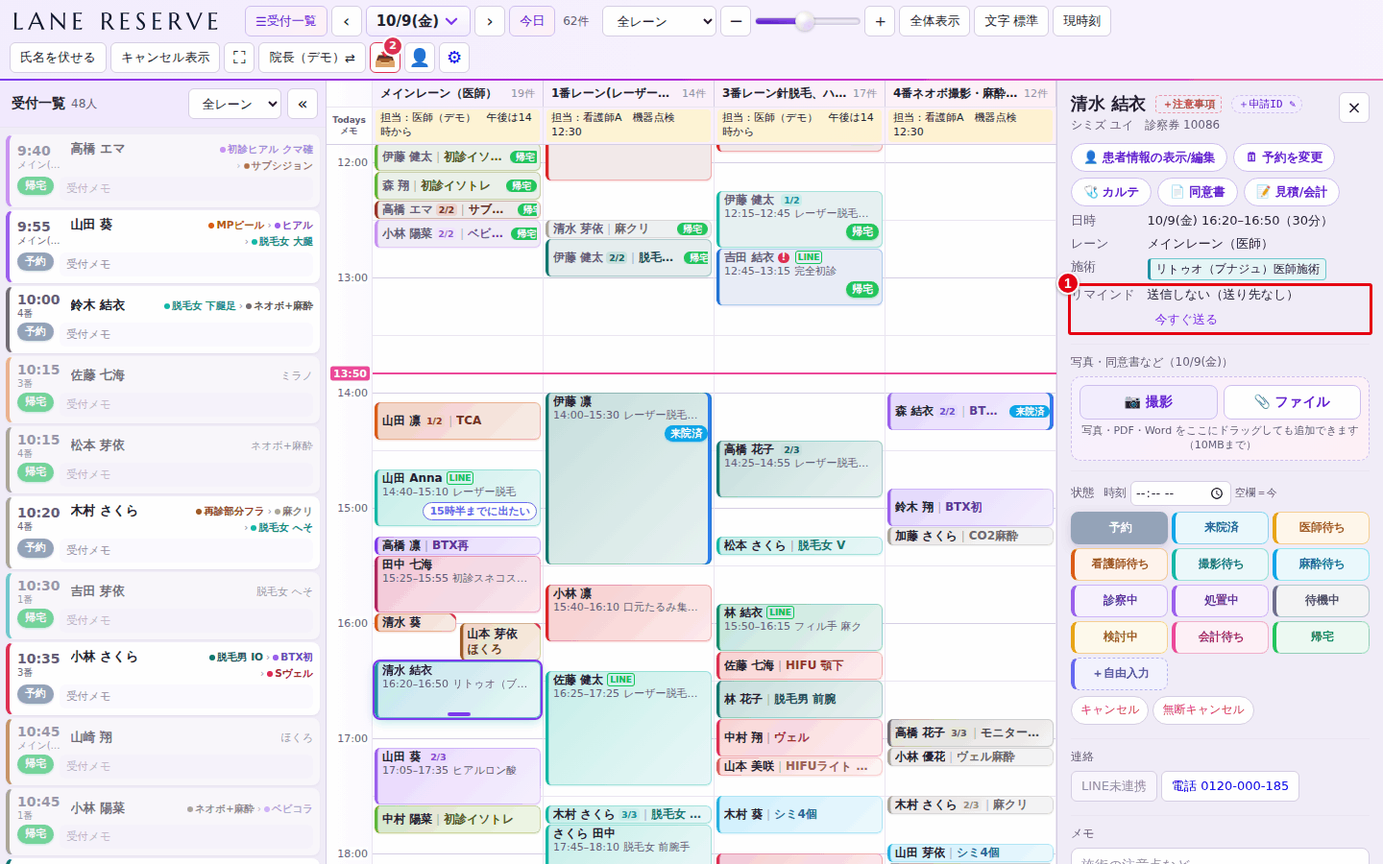
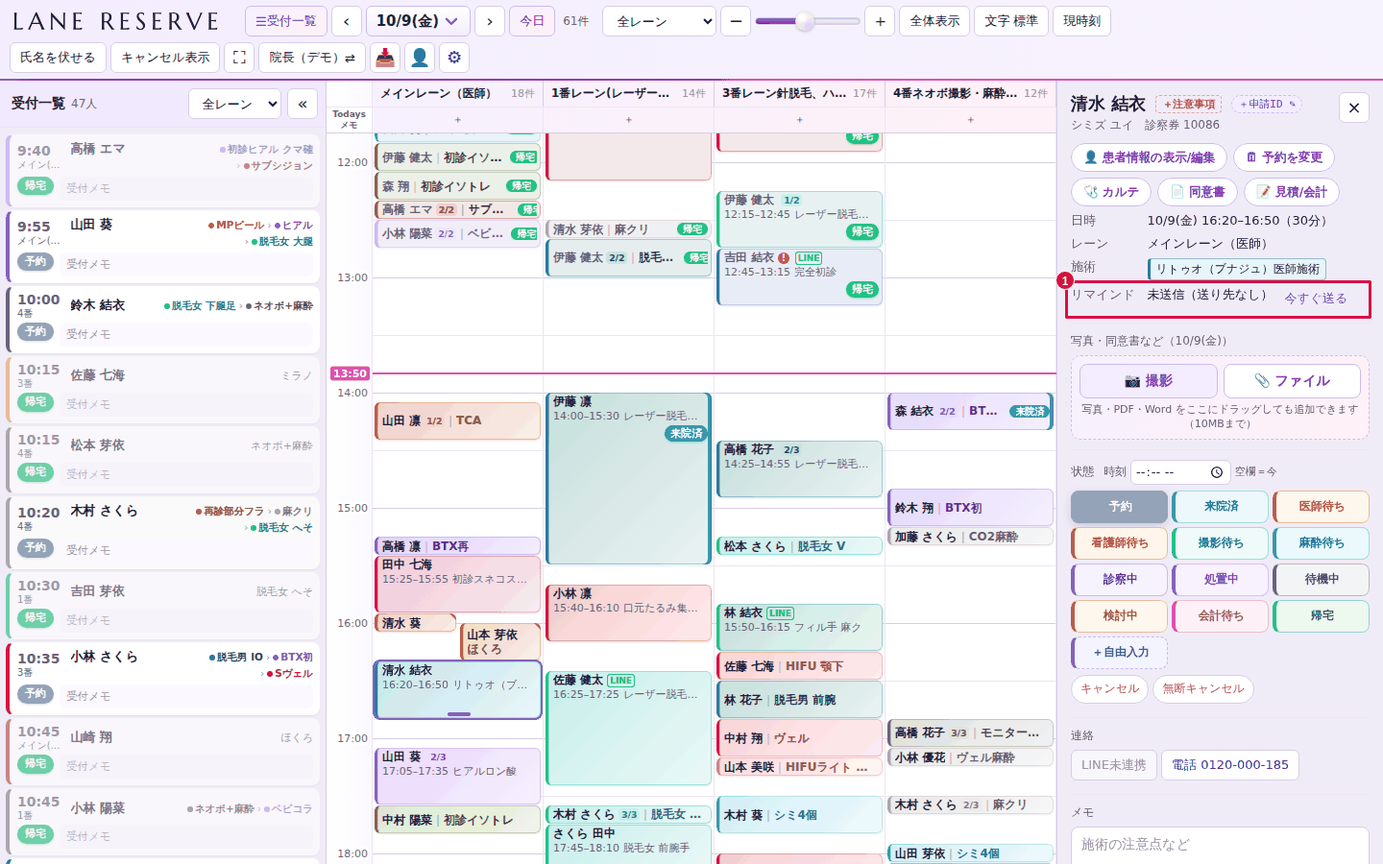
操作マニュアル：リマインドの表示・設定の変更（送信状況の確認、止める日、チャネルアクセストークン、来院前の案内）に合わせて撮り直し・追記。ページ内リンクを修正
Claude-Session: https://claude.ai/code/session_01QVwqemKgjejDT1q69zBnSy

diff --git a/apps/reserve/docs/manual/manual.html b/apps/reserve/docs/manual/manual.html
@@ -43,6 +43,7 @@ main { min-width: 0; max-width: 780px; }
 main h2 { font-family: var(--display); font-size: 26px; margin: 64px 0 16px; padding-top: 8px; border-top: 2px solid var(--ink); text-wrap: balance; scroll-margin-top: 16px; }
 main h2:first-child { margin-top: 8px; }
 main h3 { font-family: var(--display); font-size: 19px; margin: 36px 0 8px; color: var(--accent-ink); scroll-margin-top: 16px; }
+main h4 { font-family: var(--display); font-size: 16px; margin: 24px 0 6px; scroll-margin-top: 72px; }
 main p, main li { max-width: 68ch; }
 main ol, main ul { padding-left: 1.5em; }
 main li + li { margin-top: 4px; }
@@ -202,7 +203,7 @@ main h2, main h3 { scroll-margin-top: 72px; }
 </tr>
 <tr>
 <td><strong>管理操作</strong></td>
-<td>設定の変更や患者の削除・統合などの操作。院長・管理者と受付ができ、院長がほかのスタッフに許可することもできます（<a href="#15-役割ごとにできること">15章</a>）</td>
+<td>設定の変更や患者の削除・統合などの操作。院長・管理者と受付ができ、院長がほかのスタッフに許可することもできます（<a href="#s15">15章</a>）</td>
 </tr>
 </tbody>
 </table></div>
@@ -262,7 +263,7 @@ main h2, main h3 { scroll-margin-top: 72px; }
 <tr>
 <td>⑥</td>
 <td>Todaysメモ</td>
-<td>レーンごとのその日のメモ（<a href="#3-4-todaysメモ">3-4</a>）</td>
+<td>レーンごとのその日のメモ（<a href="#t6">3-4</a>）</td>
 </tr>
 <tr>
 <td>⑦</td>
@@ -277,7 +278,7 @@ main h2, main h3 { scroll-margin-top: 72px; }
 <tr>
 <td>⑨</td>
 <td>📥 受付箱</td>
-<td>LINE予約申請の受付箱（<a href="#4-4-line予約申請の文面から入れる">4-4</a>）。未対応の申請があると件数の赤い札が付きます</td>
+<td>LINE予約申請の受付箱（<a href="#t12">4-4</a>）。未対応の申請があると件数の赤い札が付きます</td>
 </tr>
 </tbody>
 </table></div>
@@ -340,7 +341,7 @@ main h2, main h3 { scroll-margin-top: 72px; }
 <p>左側の一覧には、その日の患者が時刻順に並びます（右上はレーンの絞り込み、「«」でたたむ）。パソコンでは最初から開き、スマホ・タブレットではたたまれています。</p>
 <ul>
 <li>行を押すと、予約表のその予約が選ばれ、右に詳細が出ます。</li>
-<li>行の左下の <strong>状態の札（予約・帰宅など）</strong> を押すと、状態を選ぶ窓が開き、その場で状態を変えられます（<a href="#6-来院から会計までの状態の付け方">6章</a>）。</li>
+<li>行の左下の <strong>状態の札（予約・帰宅など）</strong> を押すと、状態を選ぶ窓が開き、その場で状態を変えられます（<a href="#s6">6章</a>）。</li>
 <li>「受付メモ」を押すと、その日の受付メモを書けます。</li>
 </ul>
 <figure><button class="zoom" type="button" data-src="img/10-reception-stage.png" aria-label="拡大：受付一覧で状態を変える"><img src="img/10-reception-stage.png" alt="受付一覧で状態を変える" width="1440" height="900" loading="lazy"></button><figcaption>受付一覧で状態を変える</figcaption></figure>
@@ -401,7 +402,7 @@ main h2, main h3 { scroll-margin-top: 72px; }
 <p>予約申請IDが入った予約の詳細では、名前の行に <strong>「申請 R…」</strong>（①）が出ます。申請IDの申込者の LINE が見つかり、申請の氏名・フリガナ・電話のどれか、または生年月日が患者と合うとき（生年月日が両方に入っていて違うときは不一致）は <strong>「LINE（申込者）」</strong>（②）と出て、リマインドはその LINE に届きます。患者にまだ LINE が紐付いていなければ <strong>「＋患者に紐付け」</strong>（③）も出ます。</p>
 <ul>
 <li>申請IDの申請が見つからないときは赤い字で「LINE 不明」、名前・生年月日が合わないときは「⚠ 申請と患者が不一致」と出ます。このときは LINE では送りません。申請IDを確かめてください。</li>
-<li>名前の行に入りきらないときは、「LINE（申込者）」や「＋患者に紐付け」が次の行に折り返して出ます。</li>
+<li>名前の行に入りきらないときは、「LINE（申込者）」や「＋患者に紐付け」が次の行に折り返して出ます。長い申請IDは途中から「…」で省いて出します（押すと申請IDを入れ直せます）。閉じる ✕ は縮まずにそのまま出ます。</li>
 </ul>
 <figure><button class="zoom" type="button" data-src="img/19-line-request-badge.png" aria-label="拡大：申請のLINE"><img src="img/19-line-request-badge.png" alt="申請のLINE" width="1440" height="900" loading="lazy"></button><figcaption>申請のLINE</figcaption></figure>
 <p>「＋患者に紐付け」を押すと、「申請の名前・生年月日が『○○』さんと合っています。この LINE を患者に紐付けますか？」とブラウザの確認が出ます。<strong>OK</strong>（①）で紐付け（「LINE を紐付けました」と出ます）、<strong>キャンセル</strong>（②）でやめます。紐付けると、電話・窓口で取った予約にも LINE でリマインドが届くようになります。<strong>家族が代わりに申し込んだ場合は、紐付けないでください。</strong>（この写真は、ブラウザの枠ごと撮っています）</p>
@@ -450,11 +451,11 @@ main h2, main h3 { scroll-margin-top: 72px; }
 </tr>
 <tr>
 <td>②</td>
-<td>🗓 予約を変更（<a href="#5-3-別の日へ移すメニューを変える予約を変更">5-3</a>）</td>
+<td>🗓 予約を変更（<a href="#t16">5-3</a>）</td>
 </tr>
 <tr>
 <td>③</td>
-<td>🩺 カルテ・📄 同意書・📝 見積/会計（<a href="#10-カルテ同意書見積">10章</a>）</td>
+<td>🩺 カルテ・📄 同意書・📝 見積/会計（<a href="#s10">10章</a>）</td>
 </tr>
 <tr>
 <td>④</td>
@@ -462,15 +463,15 @@ main h2, main h3 { scroll-margin-top: 72px; }
 </tr>
 <tr>
 <td>⑤</td>
-<td>キャンセル／無断キャンセル（<a href="#7-キャンセル">7章</a>）</td>
+<td>キャンセル／無断キャンセル（<a href="#s7">7章</a>）</td>
 </tr>
 </tbody>
 </table></div>
-<p>ほかに、日時・レーン・施術・担当記録（登録した人・最後に変えた人）・リマインドの状態、その日の写真・ファイル（📷 撮影／📎 ファイル）、連絡（電話番号を押すと電話をかけられる端末ではそのまま発信）、予約メモがあります。名前の横の「＋注意事項」で注意事項をその場で書き足せます。「＋申請ID」で予約申請IDを入れ直せます（<a href="#4-4-line予約申請の文面から入れる">4-4</a>）。</p>
+<p>ほかに、日時・レーン・施術・担当記録（登録した人・最後に変えた人）・リマインドの状態、その日の写真・ファイル（📷 撮影／📎 ファイル）、連絡（電話番号を押すと電話をかけられる端末ではそのまま発信）、予約メモがあります。名前の横の「＋注意事項」で注意事項をその場で書き足せます。「＋申請ID」で予約申請IDを入れ直せます（<a href="#t12">4-4</a>）。</p>
 <figure><button class="zoom" type="button" data-src="img/20b-detail-panel-lower.png" aria-label="拡大：詳細パネルの下の部分"><img src="img/20b-detail-panel-lower.png" alt="詳細パネルの下の部分" width="1440" height="900" loading="lazy"></button><figcaption>詳細パネルの下の部分</figcaption></figure>
-<p><strong>リマインドの状態</strong>（①）には「未送信」「送信済み（前日・LINE など）」「送信しない」「送信失敗」と、送れなかったときは理由が出ます（例：「送信しない（送り先なし）」＝LINE のつながりもメールアドレスもない、「（不要の患者）」＝リマインド不要の患者、「（LINE の残り通数が少ない）」「（申請の名前・生年月日が患者と合わない）」など）。送り先は 設定 →「リマインド」の <strong>送り先の確認</strong> で、送らずに前もって確かめられます（<a href="#送り先の確認送りません">13章</a>）。</p>
+<p><strong>リマインドの状態</strong>（①）は「未送信」「LINE送信済」「メール送信済」「送信失敗」の4つのどれかです。送信済のときは送った回が付きます（例：「LINE送信済（前日）」）。送らなかった来院は「未送信」のあとに理由が出ます（例：「未送信（送り先なし）」＝LINE のつながりもメールアドレスもない、「未送信（不要の患者）」＝リマインド不要の患者、「（LINE の残り通数が少ない）」「（申請の名前・生年月日が患者と合わない）」など）。送信失敗のときも理由が出ます（例：「送信失敗（メール送信の失敗）」）。送信状況は 設定 →「リマインド」の <strong>リマインド送信状況の確認</strong> で、日付ごとにまとめて確かめられます（<a href="#u1">13章</a>）。</p>
 <figure><button class="zoom" type="button" data-src="img/20c-detail-reminder-reason.png" aria-label="拡大：リマインドの理由"><img src="img/20c-detail-reminder-reason.png" alt="リマインドの理由" width="1440" height="900" loading="lazy"></button><figcaption>リマインドの理由</figcaption></figure>
-<p>「今すぐ送る」を押すと「この来院へ、いまリマインドを送ります。よろしいですか？」と出て、OK でその来院へ1通送ります（リマインド不要の患者にも送ります）。送れないときは理由が出ます（例：「送り先がありません：申請IDの欄にもメモにも予約申請IDがなく、LINE の紐付けもない／患者のメールアドレスがない」）。キャンセル・承認待ちの予約には送れません。<strong><span class="unverified">未確認</span></strong> 実際に送る操作は、デモでは押していません。</p>
+<p>「今すぐ送る」を押すと「この来院へ、いまリマインドを送ります。よろしいですか？」と出て、OK でその来院へ1通送ります（リマインド不要の患者にも送ります）。送れないときは理由が出ます（例：「送り先がありません：LINE未連携（申請IDなし）／メールアドレス未回答」）。キャンセル・承認待ちの予約には送れません。「自動送信を止める日」（<a href="#t47">13章</a>）は自動の送信だけを止めるので、この「今すぐ送る」では送ります。<strong><span class="unverified">未確認</span></strong> 実際に送る操作は、デモでは押していません。</p>
 <h3 id="t18">6-2. 状態を付ける</h3>
 <p>初期の流れの例：<strong>予約 → 来院済 → （医師待ち・看護師待ち・撮影待ち・麻酔待ち・待機中・検討中）→ 診察中／処置中 → 会計待ち → 帰宅</strong></p>
 <ol>
@@ -482,8 +483,8 @@ main h2, main h3 { scroll-margin-top: 72px; }
 <ul>
 <li><strong>同じ日に同じ患者の枠が複数あるときは、全部の枠の状態がそろって変わります</strong>（キャンセル系は押した枠だけ）。</li>
 <li>押し忘れたときは、「時刻」欄に実際の時刻を入れてから状態のボタンを押すと、その時刻で記録されます。状態はそのままで時刻だけ直すときは、時刻を入れて <strong>「時刻だけ直す」</strong> を押します（空欄なら押した時刻）。</li>
-<li>左の受付一覧の状態の札からも同じように変えられます（<a href="#3-5-受付一覧">3-5</a>）。</li>
-<li>状態の名前・色・数は院で変えられます（<a href="#13-設定院長管理者向け">13章</a>）。</li>
+<li>左の受付一覧の状態の札からも同じように変えられます（<a href="#t7">3-5</a>）。</li>
+<li>状態の名前・色・数は院で変えられます（<a href="#s13">13章</a>）。</li>
 </ul>
 <h3 id="t19">6-3. 自由入力（ひとこと）</h3>
 <p>「＋自由入力」を押すと、状態とは別に短い一言（20文字まで。例：15時までに出たい）を付けられます。「決定」で保存、「消す」で消します。予約枠にも札で表示されます。</p>
@@ -546,7 +547,7 @@ main h2, main h3 { scroll-margin-top: 72px; }
    - 「注意事項あり」にチェックすると、予約表に「!」が出ます。
    - 重要事項（アルコール綿禁止・薬疹・アレルギー・禁忌など）はカルテの上に目立つように出ます。
    - 既往歴・内服歴・<strong>その他の問診票情報</strong>（問診票が届くたびに日付付きで足されます）・院内メモ。
-   - 問診票の回答があれば、最新の既往歴・内服歴・アレルギーが表示され、「この問診票の回答をすべて見る」で全部の回答を見られます（<a href="#9-問診票">9章</a>）。<span class="fig"><button class="zoom" type="button" data-src="img/36-patient-caution-questionnaire.png" aria-label="拡大：注意事項・問診票"><img src="img/36-patient-caution-questionnaire.png" alt="注意事項・問診票" width="1440" height="900" loading="lazy"></button></span></li>
+   - 問診票の回答があれば、最新の既往歴・内服歴・アレルギーが表示され、「この問診票の回答をすべて見る」で全部の回答を見られます（<a href="#s9">9章</a>）。<span class="fig"><button class="zoom" type="button" data-src="img/36-patient-caution-questionnaire.png" aria-label="拡大：注意事項・問診票"><img src="img/36-patient-caution-questionnaire.png" alt="注意事項・問診票" width="1440" height="900" loading="lazy"></button></span></li>
 <li>一番下の「○項目を変更中」を確かめ、<strong>保存</strong>（③）を押します。やめるときは「元に戻す」。<span class="fig"><button class="zoom" type="button" data-src="img/37-patient-save.png" aria-label="拡大：保存"><img src="img/37-patient-save.png" alt="保存" width="1440" height="900" loading="lazy"></button></span></li>
 </ol>
 <p>LINE欄の「紐付けを解除」で、LINEの紐付けを外せます（確認が出ます）。</p>
@@ -585,7 +586,7 @@ main h2, main h3 { scroll-margin-top: 72px; }
 <h3 id="t32">9-1. 回答が患者に結びつく決まり</h3>
 <ul>
 <li><strong>氏名（またはフリガナ）＋生年月日か電話番号</strong> が合う患者が1人いれば、自動で結びつきます。</li>
-<li>結びついた回答は、患者画面の「注意事項・既往歴・メモ」（<a href="#8-4-基本情報を直す">8-4</a>）と、カルテの「既往歴・内服歴」で見られます。電話・メールアドレス・住所・既往歴などの空いている欄にも写され、変更履歴に「問診票（自動取り込み）」と残ります（メールアドレスは患者のメール欄が空のときだけ写します。リマインドのメールの送り先になります）。</li>
+<li>結びついた回答は、患者画面の「注意事項・既往歴・メモ」（<a href="#t26">8-4</a>）と、カルテの「既往歴・内服歴」で見られます。電話・メールアドレス・住所・既往歴などの空いている欄にも写され、変更履歴に「問診票（自動取り込み）」と残ります（メールアドレスは患者のメール欄が空のときだけ写します。リマインドのメールの送り先になります）。</li>
 </ul>
 <h3 id="t33">9-2. 結びつかなかった回答を結びつける</h3>
 <p>合う患者がいない・2人以上いる回答は、設定 → <strong>問診票</strong> に一覧で出ます。</p>
@@ -632,7 +633,7 @@ main h2, main h3 { scroll-margin-top: 72px; }
 <h2 id="s11">11. 1日の流れ（朝・診療中・終業）</h2>
 <h3 id="t37">朝（診療前）</h3>
 <ol>
-<li>自分の名前でログインします（<a href="#2-ログイン">2章</a>）。</li>
+<li>自分の名前でログインします（<a href="#s2">2章</a>）。</li>
 <li>「今日」を押して今日の予約表を開き、「全体表示」で1日をざっと見ます。</li>
 <li>予約枠の <strong>「!」（注意事項）</strong> と <strong>赤い三角（重なり）</strong> を確かめます。重なりは必要なら動かします。</li>
 <li><strong>Todaysメモ</strong> に担当スタッフ・機器の点検など、その日の注意を書きます。</li>
@@ -653,7 +654,7 @@ main h2, main h3 { scroll-margin-top: 72px; }
 <li>今日の予約が全部「帰宅」かキャンセル系になっているか、受付一覧で確かめます。</li>
 <li>翌日の予約表を開き、注意事項・重なりを確かめます。</li>
 <li>共用の端末では「名前 ⇄」でログアウトします。</li>
-<li>バックアップ・リマインドは院のサーバーの設定で動きます。大きな変更をした日は、院長・管理者が 設定 →「控え・復元」の <strong>「今すぐ控えを取る」</strong> で控えを取っておくと安心です（<a href="#控え復元院長管理者のみ">13章</a>）。</li>
+<li>バックアップ・リマインドは院のサーバーの設定で動きます。大きな変更をした日は、院長・管理者が 設定 →「控え・復元」の <strong>「今すぐ控えを取る」</strong> で控えを取っておくと安心です（<a href="#t51">13章</a>）。</li>
 </ol>
 <hr />
 <h2 id="s12">12. スマホでの使い方</h2>
@@ -698,7 +699,7 @@ main h2, main h3 { scroll-margin-top: 72px; }
 <p>名前・短い名前（スマホ用）・並べ替え（▲▼、一番上が左端）・表示の切り替え・追加・削除。表示できるのは1〜30本。今日以降の予約が残るレーンは非表示にできず、予約の記録が一度もないレーンだけ削除できます。</p>
 <figure><button class="zoom" type="button" data-src="img/60-settings-lanes.png" aria-label="拡大：レーン"><img src="img/60-settings-lanes.png" alt="レーン" width="1440" height="900" loading="lazy"></button><figcaption>レーン</figcaption></figure>
 <h3 id="t41">メニュー</h3>
-<p>予約で選ぶメニューの一覧。「＋ 新しいメニュー」で追加、行を押すと編集画面が開きます。メニュー名・略称（短い枠に出る）・色・<strong>患者に見せる名前</strong>・<strong>来院前の案内</strong>（①、どちらもリマインドに入ります。<a href="#リマインド">リマインド</a> を参照）・提供時間（固定／最小〜最大と刻み）・予約時の初期値・開始時間の刻み・料金・同時予約数・行えるレーン・予約の選択肢に出すか、を決めます。削除しても過去の予約の表示は残ります。</p>
+<p>予約で選ぶメニューの一覧。「＋ 新しいメニュー」で追加、行を押すと編集画面が開きます。メニュー名・略称（短い枠に出る）・色・<strong>患者に見せる名前</strong>・<strong>来院前の案内</strong>（①、どちらもリマインドに入ります。<a href="#t47">リマインド</a> を参照）・提供時間（固定／最小〜最大と刻み）・予約時の初期値・開始時間の刻み・料金・同時予約数・行えるレーン・予約の選択肢に出すか、を決めます。削除しても過去の予約の表示は残ります。</p>
 <p><span class="fig"><button class="zoom" type="button" data-src="img/61-settings-menus.png" aria-label="拡大：メニュー一覧"><img src="img/61-settings-menus.png" alt="メニュー一覧" width="1440" height="900" loading="lazy"></button></span>
 <span class="fig"><button class="zoom" type="button" data-src="img/62-settings-menu-editor.png" aria-label="拡大：メニューの編集"><img src="img/62-settings-menu-editor.png" alt="メニューの編集" width="1440" height="900" loading="lazy"></button></span></p>
 <p>「開始時間の刻み」「同時予約数」は保存されるだけで、今の版では予約登録のときの制限には使われていません（コードで確認）。</p>
@@ -714,7 +715,7 @@ main h2, main h3 { scroll-margin-top: 72px; }
 <h3 id="t44">同意書／問診票</h3>
 <ul>
 <li><strong>同意書</strong>：Googleドライブの同意書フォルダとつなぐ設定（院長・管理者）と、ひな形とメニューの結びつけ。<span class="fig"><button class="zoom" type="button" data-src="img/66-settings-consents.png" aria-label="拡大：同意書の設定"><img src="img/66-settings-consents.png" alt="同意書の設定" width="1440" height="900" loading="lazy"></button></span></li>
-<li><strong>問診票</strong>：結びつかなかった回答の一覧（<a href="#9-問診票">9章</a>）。</li>
+<li><strong>問診票</strong>：結びつかなかった回答の一覧（<a href="#s9">9章</a>）。</li>
 </ul>
 <h3 id="t45">外部機器の連携</h3>
 <p>ネオボワール（肌診断機）の写真の取り込み、Googleの問診票・同意書・料金表が送るときの鍵の発行、名前で患者が決まらなかった写真（照合待ちの写真）の結びつけ。鍵の発行は院長・管理者のみです。</p>
@@ -729,30 +730,33 @@ main h2, main h3 { scroll-margin-top: 72px; }
 <li><strong>リマインド（予約のお知らせ）</strong>（院長・管理者）：LINE・メールで予約のお知らせを送る設定です。</li>
 <li><strong>状態</strong>：「止めている」／「自動で送る」。「自動で送る」を押すと「自動送信を始めます。…よろしいですか？」と確認が出ます。横に、最後に確認した日時と cron（サーバーの自動実行）の最終実行が出ます。</li>
 <li><strong>送る回</strong>：最大3回。何日前（当日・前日・○日前）と時刻（6:00〜21:00）。決めた時刻から3時間のあいだに送ります。当日の回は30分より先の来院だけ、当日に取った予約には送りません。</li>
+<li><strong>自動送信を止める日</strong>（①）：この日（その日を含む）までの予約には、自動でリマインドを送りません。空欄なら止めません（「止めない」を押すと空欄になります）。「保存する」で反映します。写真では最初の値の 2026-10-12 が入っています。予約の詳細の「今すぐ送る」は、止める日の予約にも送ります。</li>
 <li><strong>LINE で送る／メールで送る</strong>、<strong>LINE の残しておく通数</strong>、<strong>送信元のメール</strong>、<strong>送信元の名前</strong>（空欄＝院名）、<strong>返信先のメール</strong>（空欄＝送信元）。来院ごとに1通、LINE がつながっている人には LINE、ほかはメールで送ります（患者ごとの「リマインドの送り先」「リマインド不要」が優先）。LINE の残り通数が「残しておく通数」以下になったとき、また送っている途中で LINE の送信上限に達したときは、その回の残りの人には LINE を試さずメールで送ります（メールがない人には送りません）。</li>
-<li><strong>文面</strong>：<code>{患者名}</code> <code>{院名}</code> <code>{いつ}</code> <code>{日付}</code> <code>{時刻}</code> <code>{メニュー}</code> <code>{来院前のご案内}</code> <code>{院の電話}</code> を入れられます。「標準の文面に戻す」「保存する」。</li>
-<li><strong>LINE の鍵</strong>：Messaging API チャネルの「チャネルアクセストークン（長期）」を入れます。保存すると画面には二度と表示しません。</li>
-<li><strong>今すぐ確認して送る</strong>：決めた時刻を過ぎていれば、まだ送っていない来院へ送ります（同じ来院・同じ回には二度送りません）。予約の詳細の「今すぐ送る」で1件だけ送ることもできます（<a href="#6-1-予約の詳細パネル">6-1</a>）。</li>
+<li><strong>メニューの「来院前の案内」</strong>（下の写真の①）：「本文に足さない」（最初の値）／「本文の最後に足す」。「本文の最後に足す」にしたときだけ、メニューの「来院前の案内」を本文の最後（文面に <code>{来院前のご案内}</code> を書いたときはその場所）に入れます。</li>
+<li><strong>文面</strong>（下の写真の②）：<code>{患者名}</code> <code>{院名}</code> <code>{いつ}</code> <code>{日付}</code> <code>{時刻}</code> <code>{メニュー}</code> <code>{来院前のご案内}</code> <code>{院の電話}</code> を入れられます。メニュー名（「患者に見せる名前」）は、文面に <code>{メニュー}</code> を書いたときだけ入ります（標準の文面には <code>{メニュー}</code> がないので、メニュー名は入りません）。「標準の文面に戻す」「保存する」。<span class="fig"><button class="zoom" type="button" data-src="img/69e-reminder-menu-guide.png" aria-label="拡大：メニューの「来院前の案内」と文面"><img src="img/69e-reminder-menu-guide.png" alt="メニューの「来院前の案内」と文面" width="546" height="620" loading="lazy"></button></span></li>
+<li><strong>LINE チャネルアクセストークン</strong>（下の写真の①）：「設定済み」か「未設定」が出ます。LINE Developers の Messaging API チャネルにある「チャネルアクセストークン（長期）」を貼り付けて <strong>「保存」</strong> を押します。保存後は画面に表示されません。設定済みのときは <strong>「削除」</strong> も出ます（押すと「LINE チャネルアクセストークンを削除します。…よろしいですか？」と確認が出ます。削除すると LINE ではリマインドを送れなくなります）。</li>
+<li><strong>未送信分を今すぐ送る</strong>（下の写真の②）：送信時刻を過ぎた回のうち、まだリマインドを送っていない予約に送ります。同じ予約に同じ回のリマインドを二度送ることはありません。「自動送信を止める日」までの予約には送りません。予約の詳細の「今すぐ送る」で1件だけ送ることもできます（<a href="#t17">6-1</a>）。<span class="fig"><button class="zoom" type="button" data-src="img/69f-reminder-token-send.png" aria-label="拡大：LINE チャネルアクセストークンと未送信分を今すぐ送る"><img src="img/69f-reminder-token-send.png" alt="LINE チャネルアクセストークンと未送信分を今すぐ送る" width="546" height="457" loading="lazy"></button></span></li>
 <li><strong>Airリザーブの取り込み</strong>（院長・管理者）：毎朝、決めた時刻（5:00〜16:59）を過ぎたら翌日分の予約をAirリザーブから取り込む設定です（状態「止めている／毎朝取り込む」、取り込む時刻、Air のログイン ID・パスワード、取り込む日を選んで今すぐ取り込む）。ログイン情報は暗号化して保存し、画面には二度と出しません（入れるまでは「毎朝取り込む」と「今すぐ取り込む」は押せません）。Air予約番号で同じ予約を探して時刻・レーン・メニューをAirに合わせ、Airで取り消された・消えた予約は取り消しにします。リマインドを送る20分前にも、その回の対象日をもう一度取り込みます。既存の患者に結びついた予約で、患者のメールアドレスが空のときは Air のメールアドレスで補います（入っているメールは変えません）。既存の患者と結びつけられず新しく登録した患者は <strong>「要確認」</strong> の一覧に出て、予約の詳細の名前の横にも赤い「要確認」が出ます。同じ人がいれば患者画面で統合し、別の人なら一覧の「確認済み」を押します。<span class="fig"><button class="zoom" type="button" data-src="img/69d-settings-air.png" aria-label="拡大：Airリザーブの取り込み"><img src="img/69d-settings-air.png" alt="Airリザーブの取り込み" width="1440" height="900" loading="lazy"></button></span></li>
 <li><strong>Air と見比べる（読むだけ）</strong>（院長・管理者）：期間（一度に62日まで、過去の日も可）を選んで「見比べる」を押すと、Airの予約とLANE RESERVEの予約（Air予約番号つき）を見比べ、違う人・時刻やレーンのずれ・片方にしかない予約・同じ予約番号の二重を一覧にします。何も書き換えません。</li>
-<li><strong>リマインドで見せるメニュー</strong>（管理操作のできる人）：メニューごとに <strong>「患者に見せる名前」</strong>（リマインドの <code>{メニュー}</code> に入る。空欄ならメニュー名。院内の略称【再診】などを患者に見せないため）と <strong>「来院前の案内」</strong>（本文の最後、または <code>{来院前のご案内}</code> の場所に入る。1回の来院に複数のメニューがあるときはまとめて1回だけ）を入れ、行ごとに「保存」を押します。「まだ入れていないものだけ」で絞り込めます。メニューの編集画面でも同じ欄を直せます。</li>
-<li><strong>予約申請のLINEを患者に紐付ける</strong>：予約申請IDのLINEが見つかり、名前・生年月日が患者と合うとき、詳細パネルの申請IDの横に「LINE（申込者）」と「＋患者に紐付け」が出ます（<a href="#4-4-line予約申請の文面から入れる">4-4</a>）。家族が代わりに申し込んだ場合は紐付けないでください。</li>
+<li><strong>リマインドで見せるメニュー</strong>（管理操作のできる人）：メニューごとに <strong>「患者に見せる名前」</strong>（文面に <code>{メニュー}</code> を書いたときだけその場所に入る。空欄ならメニュー名。院内の略称【再診】などを患者に見せないため）と <strong>「来院前の案内」</strong>（上の「メニューの『来院前の案内』」を「本文の最後に足す」にしたときだけ入る。文面に <code>{来院前のご案内}</code> を書けばその場所。1回の来院に複数のメニューがあるときはまとめて1回だけ）を入れ、行ごとに「保存」を押します。「まだ入れていないものだけ」で絞り込めます。メニューの編集画面でも同じ欄を直せます。</li>
+<li><strong>予約申請のLINEを患者に紐付ける</strong>：予約申請IDのLINEが見つかり、名前・生年月日が患者と合うとき、詳細パネルの申請IDの横に「LINE（申込者）」と「＋患者に紐付け」が出ます（<a href="#t12">4-4</a>）。家族が代わりに申し込んだ場合は紐付けないでください。</li>
 </ul>
-<p><strong><span class="unverified">未確認</span></strong> 実際に LINE・メールでリマインドを送る操作（「自動で送る」「今すぐ確認して送る」「今すぐ送る」）と、Airリザーブにログインする操作（「今すぐ取り込む」「見比べる」、要確認の一覧・見比べの結果）は、デモでは試していません。写真の送信元のメールは架空のアドレスで、自動送信は「止めている」のままです。</p>
-<h4>送り先の確認（送りません）</h4>
-<p>「リマインド（予約のお知らせ）」のいちばん下にあります。<strong>LINE・メールは送りません。</strong> 前日のうちに、送り先が足りない患者を見つけるのに使います（院長・管理者）。</p>
+<p><strong><span class="unverified">未確認</span></strong> 実際に LINE・メールでリマインドを送る操作（「自動で送る」「未送信分を今すぐ送る」「今すぐ送る」）と、「自動送信を止める日」で実際に自動送信が止まること、「メニューの『来院前の案内』」を「本文の最後に足す」にしたときの実際の文面と、Airリザーブにログインする操作（「今すぐ取り込む」「見比べる」、要確認の一覧・見比べの結果）は、デモでは試していません。写真の送信元のメールは架空のアドレスで、自動送信は「止めている」のまま、LINE チャネルアクセストークンは「未設定」のままです。</p>
+<h4 id="u1">リマインド送信状況の確認</h4>
+<p>「リマインド（予約のお知らせ）」のいちばん下にあります（以前の「送り先の確認（送りません）」です）。<strong>この画面からは LINE・メールを送りません。</strong> 日付を選ぶと、その日の予約ごとに、送ったか・どの方法で送る（送った）か・届かない理由を見られます。前日のうちに送り先が足りない患者を見つけたり、送ったあとに送信失敗がないか確かめたりするのに使います（院長・管理者）。</p>
 <ol>
 <li>日付（①、最初は明日）を選び、<strong>「確かめる」</strong>（②）を押します。</li>
-<li>「LINE ○件・メール ○件・送れない ○件」（③）と、その日の来院ごとの表（④）が出ます。LINE の鍵が入っているときは、LINE の今月の残り通数も出ます。
+<li>「送信済 ○件・未送信 ○件（うち送信方法なし ○件）・送信失敗 ○件」（③）と、その日の来院ごとの表（④）が出ます。LINE チャネルアクセストークンが設定済みのときは、LINE の今月の残り通数も出ます。選んだ日が「自動送信を止める日」までのときは、「※ ○○ までの予約は、自動送信を止めています。」と出ます。
    - <strong>時刻・患者</strong>：来院の時刻と患者（押すと患者画面）。同じ日の枠が複数あっても、来院ごとに1行です。キャンセル・承認待ちの予約は出ません。
-   - <strong>送り先</strong>：「LINE」「メール」「送れない」。送り先の選び方は実際の送信と同じです。
-   - <strong>LINE</strong>：LINE がつながっていれば「あり」（予約申請IDの申込者の LINE か、患者に紐付けた LINE）。
-   - <strong>メール</strong>：メールアドレスの一部を伏せて出します（例：<code>sa***@example.com</code>）。
-   - <strong>届かない・使わない理由</strong>：「LINE のつながりなし」「LINE の鍵が入っていない」「LINE の残り通数が少ない」「申請IDの LINE が見つからない」「申請の名前・生年月日が患者と合わない」「メールアドレスなし」「メールアドレスの形が正しくない」「送信元のメールが未設定」「LINE（メール）で送る設定が『送らない』」「リマインド不要の患者」など。</li>
-<li>「送れない」の患者は、患者画面の連絡先情報でメールアドレスや「リマインドの送り先」を確かめるか、LINE を紐付けます（<a href="#4-4-line予約申請の文面から入れる">4-4</a>）。</li>
+   - <strong>送信状況</strong>：「送信済」「未送信」「送信失敗」。送信済・送信失敗には日時が付きます。送らなかった来院（リマインド不要・送り先なしなど）とまだ送っていない来院は「未送信」です。
+   - <strong>送信方法</strong>：送信済なら送った方法、まだなら送るときの方法（「LINE」「メール」）。送れる方法がないときは「—」です。選び方は実際の送信と同じです。
+   - <strong>LINE</strong>：「連携済」（予約申請IDの申込者の LINE か、患者に紐付けた LINE がある）／「未連携」。
+   - <strong>メール</strong>：メールアドレスの一部を伏せて出します（例：<code>sa***@example.com</code>）。入っていなければ「未回答」。
+   - <strong>詳細</strong>：その方法で届かない・使わない理由。「LINE未連携」「LINE チャネルアクセストークン未設定」「LINE の残り通数が少ない」「申請IDの LINE が見つからない」「申請の名前・生年月日が患者と合わない」「メールアドレス未回答」「メールアドレスの形が正しくない」「送信元メールアドレス未設定」「LINE（メール）で送る設定が『送らない』」「リマインド不要の患者」など。</li>
+<li>「未送信」で送信方法が「—」の患者は、患者画面の連絡先情報でメールアドレスや「リマインドの送り先」を確かめるか、LINE を紐付けます（<a href="#t12">4-4</a>）。「送信失敗」の患者は、詳細と予約の詳細の「リマインド」の理由を確かめます。</li>
 </ol>
-<figure><button class="zoom" type="button" data-src="img/69c-reminder-check.png" aria-label="拡大：送り先の確認"><img src="img/69c-reminder-check.png" alt="送り先の確認" width="1000" height="900" loading="lazy"></button><figcaption>送り先の確認</figcaption></figure>
-<p>この写真は、画面の幅を狭くして（横1000px）撮っています。広い画面では左の列に出るので、表が横にはみ出すときは表を横にずらして見ます。写真では LINE の鍵を入れていないため、LINE がつながっている人も「LINE の鍵が入っていない」でメールか送れないになっています。</p>
+<figure><button class="zoom" type="button" data-src="img/69c-reminder-check.png" aria-label="拡大：リマインド送信状況の確認"><img src="img/69c-reminder-check.png" alt="リマインド送信状況の確認" width="1000" height="900" loading="lazy"></button><figcaption>リマインド送信状況の確認</figcaption></figure>
+<p>この写真は、画面の幅を狭くして（横1000px）撮っています。広い画面では左の列に出るので、表が横にはみ出すときは表を横にずらして見ます。写真では LINE チャネルアクセストークンが未設定のため、LINE が連携済の人も詳細が「LINE チャネルアクセストークン未設定」で、送信方法はメールか「—」になっています。送信済・送信失敗の行は、写真のためにデモデータに書き込んだ架空の状態です（実際には送っていません）。</p>
 <h3 id="t48">画面の表示・配色</h3>
 <p>院の配色（すべての端末）と、この端末だけの表示（予約の枠に出す情報、受付一覧を開いておくか、文字の大きさ）。</p>
 <figure><button class="zoom" type="button" data-src="img/70-settings-appearance.png" aria-label="拡大：画面の表示・配色"><img src="img/70-settings-appearance.png" alt="画面の表示・配色" width="1440" height="900" loading="lazy"></button><figcaption>画面の表示・配色</figcaption></figure>
@@ -789,10 +793,10 @@ main h2, main h3 { scroll-margin-top: 72px; }
 <h2 id="s14">14. 困ったとき（FAQ）</h2>
 <p><strong>Q. 保存できない／「保存できませんでした」と出る</strong>
 - 画面の下に赤い知らせが出たら、その文を読んでください。通信が切れていないか確かめ、ページを開き直してからもう一度行います。
-- 予約の登録では、患者・メニューを選んでいない、診療時間を超えている、などの理由が赤字で出ます（<a href="#4-2-出てくる警告">4-2</a>）。
-- 設定の変更で「この操作の権限がありません」と出たら、管理操作のできる人に頼んでください（<a href="#15-役割ごとにできること">15章</a>）。</p>
+- 予約の登録では、患者・メニューを選んでいない、診療時間を超えている、などの理由が赤字で出ます（<a href="#t10">4-2</a>）。
+- 設定の変更で「この操作の権限がありません」と出たら、管理操作のできる人に頼んでください（<a href="#s15">15章</a>）。</p>
 <p><strong>Q. 「他の端末で先に更新されました」と出た（同時に編集した）</strong>
-- ほかの人が同じ予約・患者・記録を先に変えています。上書きはされません。予約表は自動で最新に読み直されます。患者画面では「最新の内容を読み込む」を押し、もう一度直してください（<a href="#8-9-ほかの人が同時に同じ患者を直したとき">8-9</a>）。</p>
+- ほかの人が同じ予約・患者・記録を先に変えています。上書きはされません。予約表は自動で最新に読み直されます。患者画面では「最新の内容を読み込む」を押し、もう一度直してください（<a href="#t31">8-9</a>）。</p>
 <p><strong>Q. ログインできない／「5分間ログインできません」と出た</strong>
 - PINを5回続けて間違えたためのロックです。表示された時間を待ってから入れ直してください。続けて間違えると、ロックの時間が長くなります。
 - PINを忘れたときは、院長・管理者に設定 → スタッフ →「PINを変更」で新しいPINにしてもらいます。
@@ -807,17 +811,18 @@ main h2, main h3 { scroll-margin-top: 72px; }
 <p><strong>Q. キャンセルした予約が見えない</strong>
 - 「キャンセル表示」を押すと薄く表示されます。</p>
 <p><strong>Q. 間違えてキャンセル（無断キャンセル）にしてしまった</strong>
-- 「キャンセル表示」を押し、その予約の枠を押して詳細を開き、<strong>「予約に戻す」</strong> →確認で <strong>OK</strong> を押します（<a href="#7-3-取り消した予約を予約に戻す">7-3</a>）。入れ直す必要はありません。</p>
+- 「キャンセル表示」を押し、その予約の枠を押して詳細を開き、<strong>「予約に戻す」</strong> →確認で <strong>OK</strong> を押します（<a href="#t22">7-3</a>）。入れ直す必要はありません。</p>
 <p><strong>Q. バックアップ（控え）を取りたい</strong>
-- 院長・管理者が 設定 →「控え・復元」の <strong>「今すぐ控えを取る」</strong> を押します（<a href="#控え復元院長管理者のみ">13章</a>）。取り込み・統合などの大きな変更の前に押しておくと安心です。院長・管理者以外のログインでは、このタブは出ません。</p>
+- 院長・管理者が 設定 →「控え・復元」の <strong>「今すぐ控えを取る」</strong> を押します（<a href="#t51">13章</a>）。取り込み・統合などの大きな変更の前に押しておくと安心です。院長・管理者以外のログインでは、このタブは出ません。</p>
 <p><strong>Q. リマインドが届かない患者がいる</strong>
-- 予約の詳細の「リマインド」に、送れなかった理由が出ます（<a href="#6-1-予約の詳細パネル">6-1</a>）。
-- 院長・管理者は、設定 →「リマインド」の <strong>送り先の確認（送りません）</strong> で、日付を選んで「確かめる」を押すと、来院ごとの送り先と届かない理由を前もって確かめられます（<a href="#送り先の確認送りません">13章</a>）。
-- 「送れない」の患者は、患者画面の連絡先情報にメールアドレスを入れるか、LINE予約申請の LINE を紐付けます（<a href="#4-4-line予約申請の文面から入れる">4-4</a>）。</p>
+- 予約の詳細の「リマインド」に、状態（未送信／LINE送信済／メール送信済／送信失敗）と、送らなかった・送れなかった理由が出ます（例：「未送信（送り先なし）」）（<a href="#t17">6-1</a>）。
+- 院長・管理者は、設定 →「リマインド」の <strong>リマインド送信状況の確認</strong> で、日付を選んで「確かめる」を押すと、来院ごとの送信状況・送信方法・詳細（届かない理由）を確かめられます。この画面からは送りません（<a href="#u1">13章</a>）。
+- 予約の日が「自動送信を止める日」までのときは、自動では送りません（<a href="#t47">13章</a>）。
+- 「未送信」で送信方法が「—」の患者は、患者画面の連絡先情報にメールアドレスを入れるか、LINE予約申請の LINE を紐付けます（<a href="#t12">4-4</a>）。</p>
 <p><strong>Q. 予約表の時刻の範囲を変えたい</strong>
 - 設定 → 院の情報・診療時間 で開院・閉院時間を変えます（管理操作のできる人）。時間外の予約も表示はされます。</p>
 <p><strong>Q. 使い方がわからない</strong>
-- 予約表の ⚙（設定）→ いちばん右の <strong>「操作マニュアル」</strong> のタブで、このマニュアルを読めます（<a href="#操作マニュアルスタッフ全員">13章</a>）。スタッフ全員が開けます。上の検索欄で語句を探せます。</p>
+- 予約表の ⚙（設定）→ いちばん右の <strong>「操作マニュアル」</strong> のタブで、このマニュアルを読めます（<a href="#t52">13章</a>）。スタッフ全員が開けます。上の検索欄で語句を探せます。</p>
 <p><strong>Q. 文字が小さい</strong>
 - 上のバーの「文字」で、標準→大きめ→特大と切り替わります（この端末だけ）。</p>
 <hr />
@@ -926,7 +931,7 @@ main h2, main h3 { scroll-margin-top: 72px; }
 <td style="text-align: center;">×</td>
 </tr>
 <tr>
-<td>リマインド（送り先の確認を含む）・Airリザーブの取り込み・Airとの見比べ・同意書の読み込み元・外部連携の鍵・電子カルテ照合</td>
+<td>リマインド（リマインド送信状況の確認を含む）・Airリザーブの取り込み・Airとの見比べ・同意書の読み込み元・外部連携の鍵・電子カルテ照合</td>
 <td style="text-align: center;">○</td>
 <td style="text-align: center;">×</td>
 <td style="text-align: center;">×</td>
@@ -958,11 +963,11 @@ main h2, main h3 { scroll-margin-top: 72px; }
 <li><strong>操作マニュアル</strong>：設定の「操作マニュアル」のタブは <code>public/manual/index.html</code> を埋め込んで表示します（部品は <code>src/components/settings/ManualTab.tsx</code>）。このフォルダの内容を取り込み直すときは <code>scripts/update-manual.sh</code> を使います。</li>
 <li><strong>控え</strong>：「今すぐ控えを取る」は <code>POST /api/v1/admin/backup</code>（<code>{"confirm":"BACKUP"}</code>、院長・管理者のみ）。写真などのファイルは <code>data/blobs/</code> に保存されます。サーバーでの控えと復元の手順は <code>php/README.md</code> を見てください。</li>
 <li><strong>受付箱</strong>：<code>GET /api/v1/intake</code>・<code>POST /api/v1/intake/{申請ID}/mark</code>。申請は、LINE の受け口（line-webhook）が保存した <code>intake-records/R{受付日時（UTC）14桁}{16進の大文字8桁}.json</code> を読むだけです（場所は設定の <code>line_intake_dir</code>、開発では <code>.data/php/intake-records/</code>）。中身は <code>type: "reservation_intake"</code>・<code>requestId</code>・<code>receivedAt</code>・<code>intake</code>（<code>visitType</code>・<code>preferredDate</code>・<code>name</code>・<code>kana</code>・<code>phone</code>・<code>birthDate</code> など）・<code>message.text</code>・<code>source.userId</code>。申込者の LINE の ID は画面に出さず、リマインドの送り先選びと「＋患者に紐付け」（<code>POST /api/v1/reservations/{id}/link-line</code>）でだけ使います。</li>
-<li><strong>リマインド</strong>：設定は <code>GET/PUT /api/v1/admin/reminders</code>、送り先の確認（送らない）は <code>GET /api/v1/admin/reminders/preview?date=YYYY-MM-DD</code>、今すぐ確認して送るは <code>POST /api/v1/admin/reminders/run</code>、予約1件へ今すぐ送るは <code>POST /api/v1/reservations/{id}/remind</code>（いずれも本当に送るのは run と remind だけ）。自動送信は cron（<code>php/cron/reminders.php</code>）から動きます。</li>
+<li><strong>リマインド</strong>：設定は <code>GET/PUT /api/v1/admin/reminders</code>（「自動送信を止める日」は <code>pauseUntil</code>、「メニューの『来院前の案内』」は <code>appendNotes</code>。最初は <code>pauseUntil: "2026-10-12"</code>・<code>appendNotes: false</code>）、リマインド送信状況の確認（送らない）は <code>GET /api/v1/admin/reminders/preview?date=YYYY-MM-DD</code>（来院ごとに <code>status</code>＝sent／pending／failed・<code>method</code>・<code>at</code>・<code>line</code>・<code>email</code>・<code>why</code>）、未送信分を今すぐ送るは <code>POST /api/v1/admin/reminders/run</code>、予約1件へ今すぐ送るは <code>POST /api/v1/reservations/{id}/remind</code>（いずれも本当に送るのは run と remind だけ）。自動送信は cron（<code>php/cron/reminders.php</code>）から動き、<code>pauseUntil</code> の日（を含む）までの来院の回は飛ばします。</li>
 <li><strong>同時編集</strong>：予約・患者などは <code>version</code> を持ち、古い版での保存は「他の端末で先に更新されました」で止まります（409）。</li>
 <li><strong>デモ</strong>：架空の患者・予約は <code>php/tools/demo-seed.php</code> で入れます。デモのPINは全員 <code>1234</code>。</li>
 <li><strong>運用のルール</strong>：予約・患者などの運用データは院の運用ルールの対象です。<strong>患者の情報（氏名・電話・カルテ内容など）を、ログ・チャット・課題管理・AIへの指示文に書かないでください。</strong> 調べるときは架空のデモデータを使い、本番のデータや本番の画面・APIには触れないでください。</li>
-<li>このマニュアルの写真のうち、予約表・カルテ・同意書・見積・スマホ・受付箱・リマインド・Airリザーブの設定の写真は、PHP 版に一本化した開発版（<code>npm run dev</code>、デモデータ）で撮影しました。患者画面と、リマインド・Air 以外の設定の写真は、それより前の開発版のままです。受付箱の申請は <code>intake-records/</code> に置いた架空の申請ファイルです。リマインドの実際の送信と、Airリザーブへのログイン（取り込み・見比べ）は試していません。</li>
+<li>このマニュアルの写真のうち、予約表・カルテ・同意書・見積・スマホ・受付箱・リマインド・Airリザーブの設定の写真は、PHP 版に一本化した開発版（<code>npm run dev</code>、デモデータ）で撮影しました。患者画面と、リマインド・Air 以外の設定の写真は、それより前の開発版のままです。受付箱の申請と img/19 の申請IDは <code>intake-records/</code> に置いた架空の申請ファイルです。リマインドの状態（「未送信（送り先なし）」、送信状況の確認の送信済・送信失敗の行）は、写真のためにデモデータへ書き込んだ架空の状態です。リマインドの実際の送信と、Airリザーブへのログイン（取り込み・見比べ）は試していません。</li>
 </ul>
   </main>
 </div>
@@ -988,8 +993,8 @@ main h2, main h3 { scroll-margin-top: 72px; }
   function go(el, block) { if (el) el.scrollIntoView({ behavior: 'auto', block: block || 'start' }); }
 
   // 目次から飛ぶ
-  toc.addEventListener('click', function (e) {
-    var a = e.target.closest('a[href^="#"]');
+  document.addEventListener('click', function (e) {
+    var a = e.target.closest && e.target.closest('a[href^="#"]');
     if (!a) return;
     e.preventDefault();
     go(document.getElementById(a.getAttribute('href').slice(1)));
